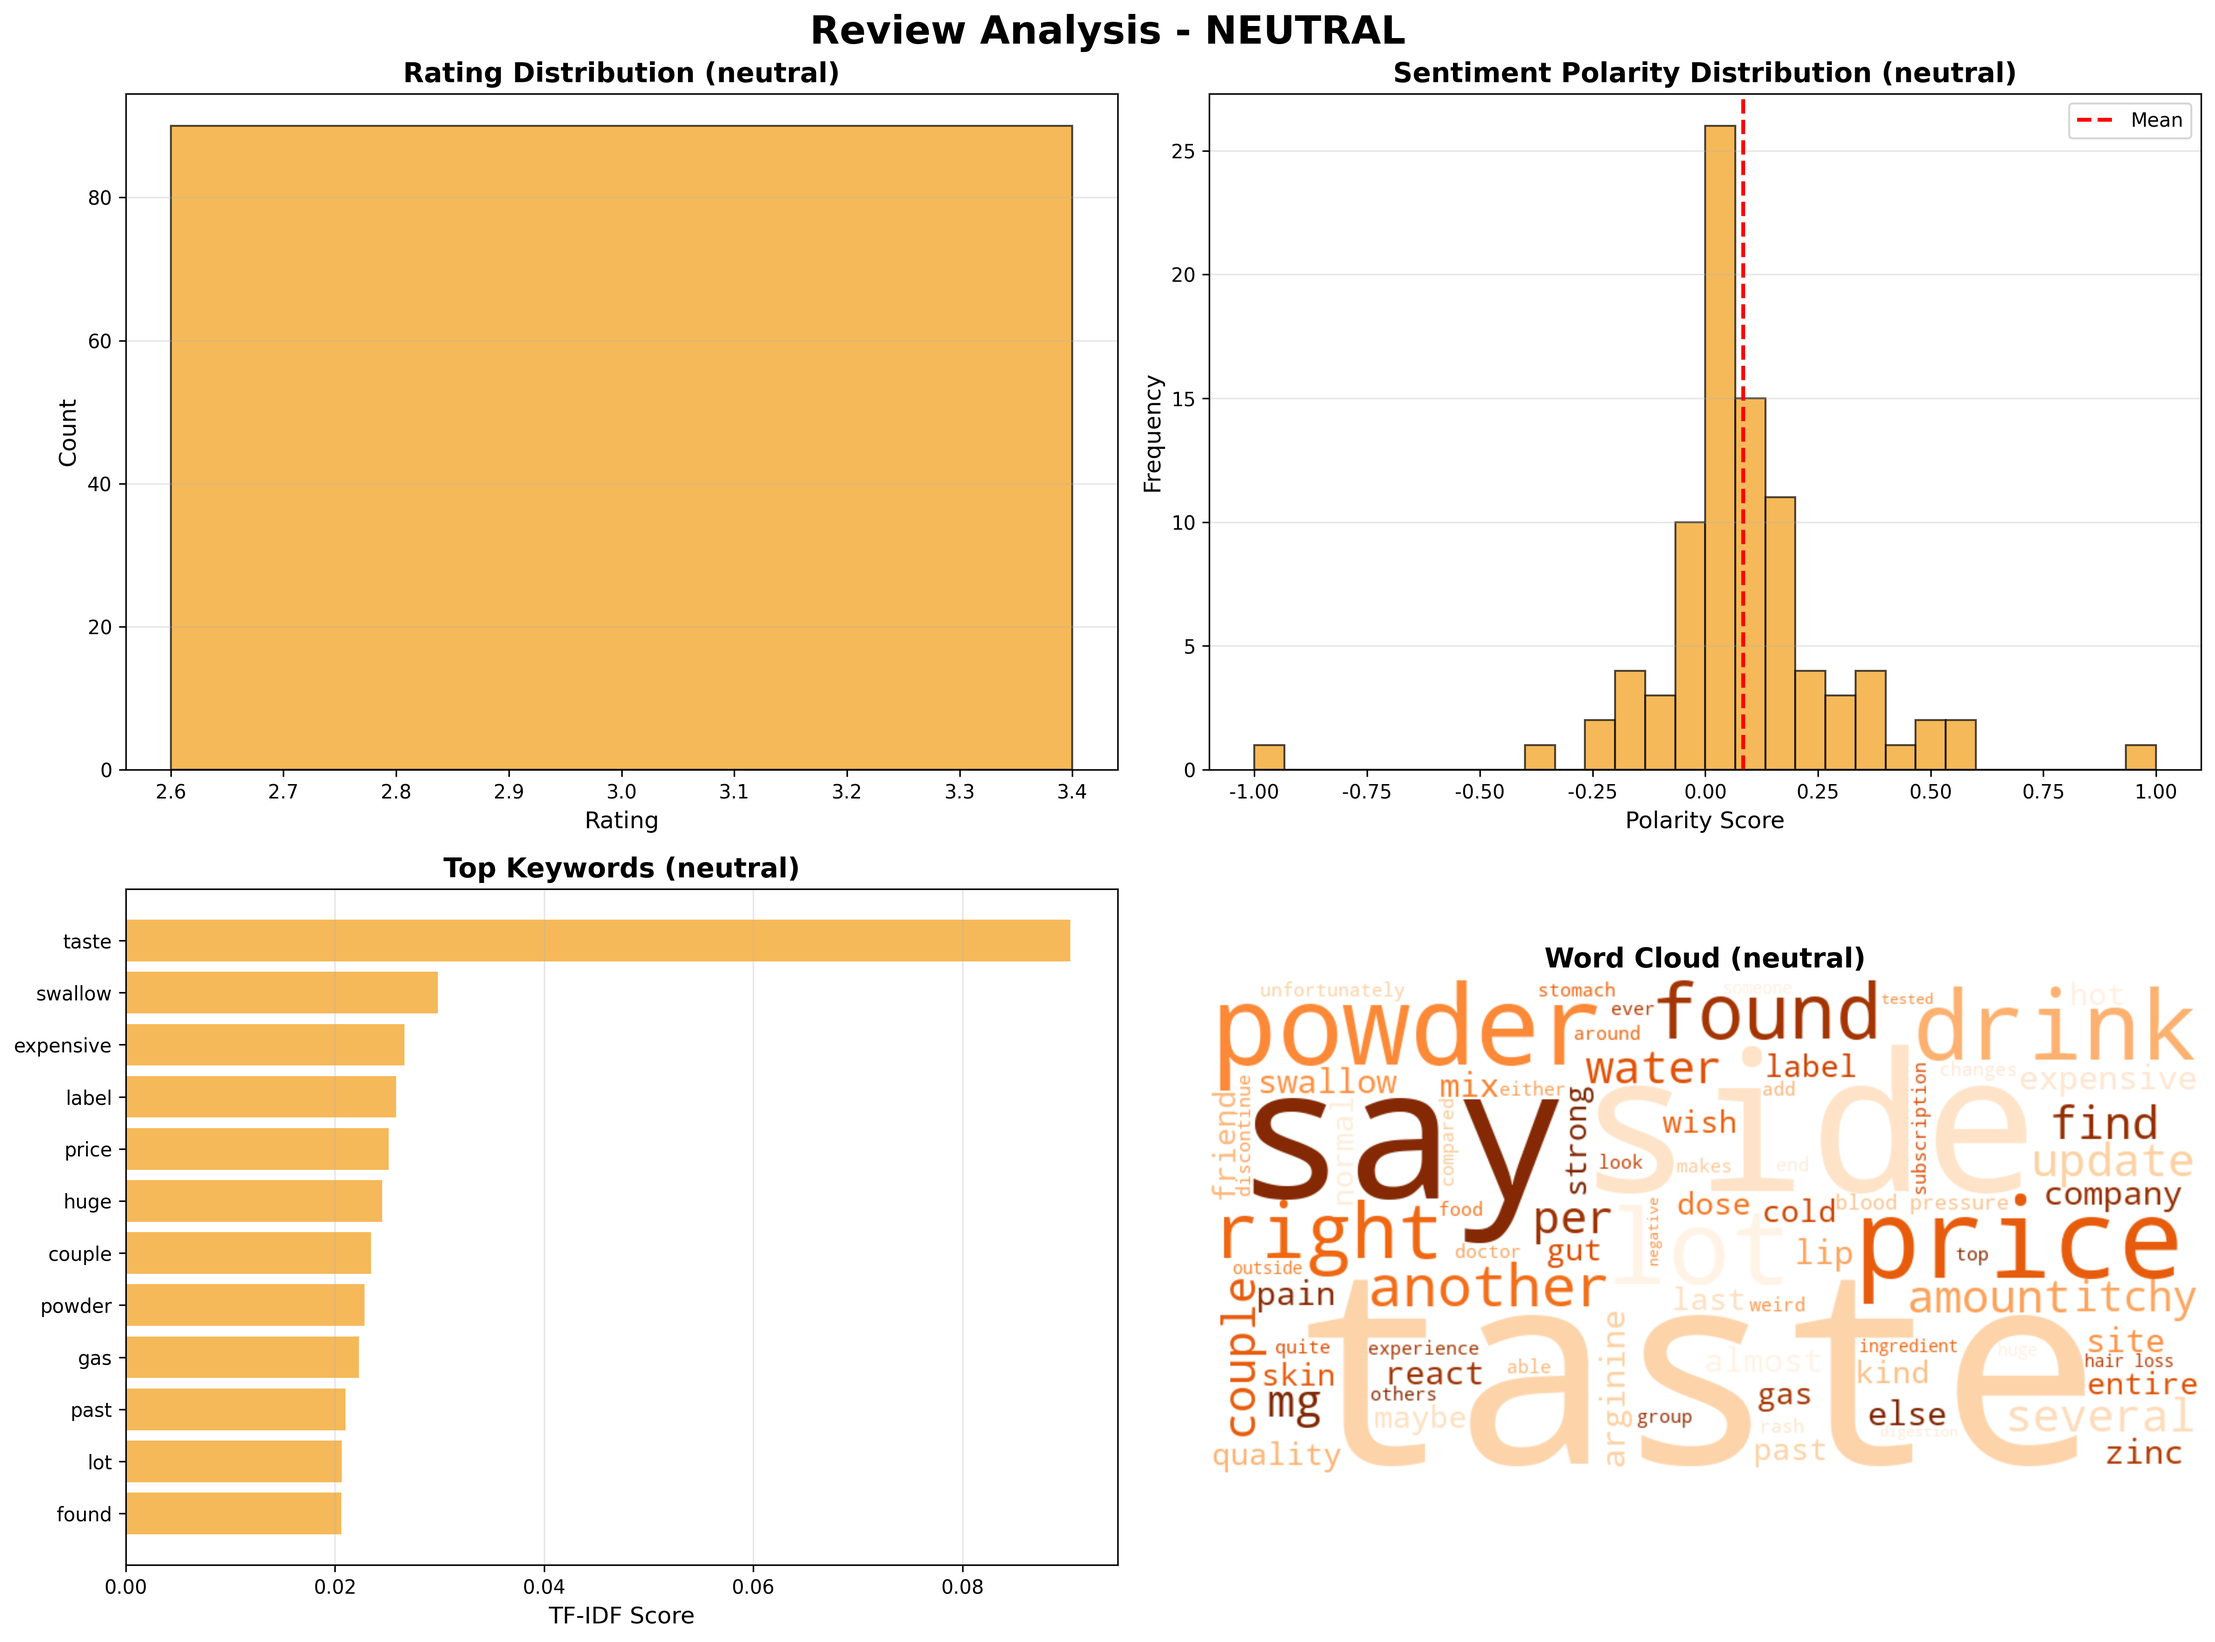
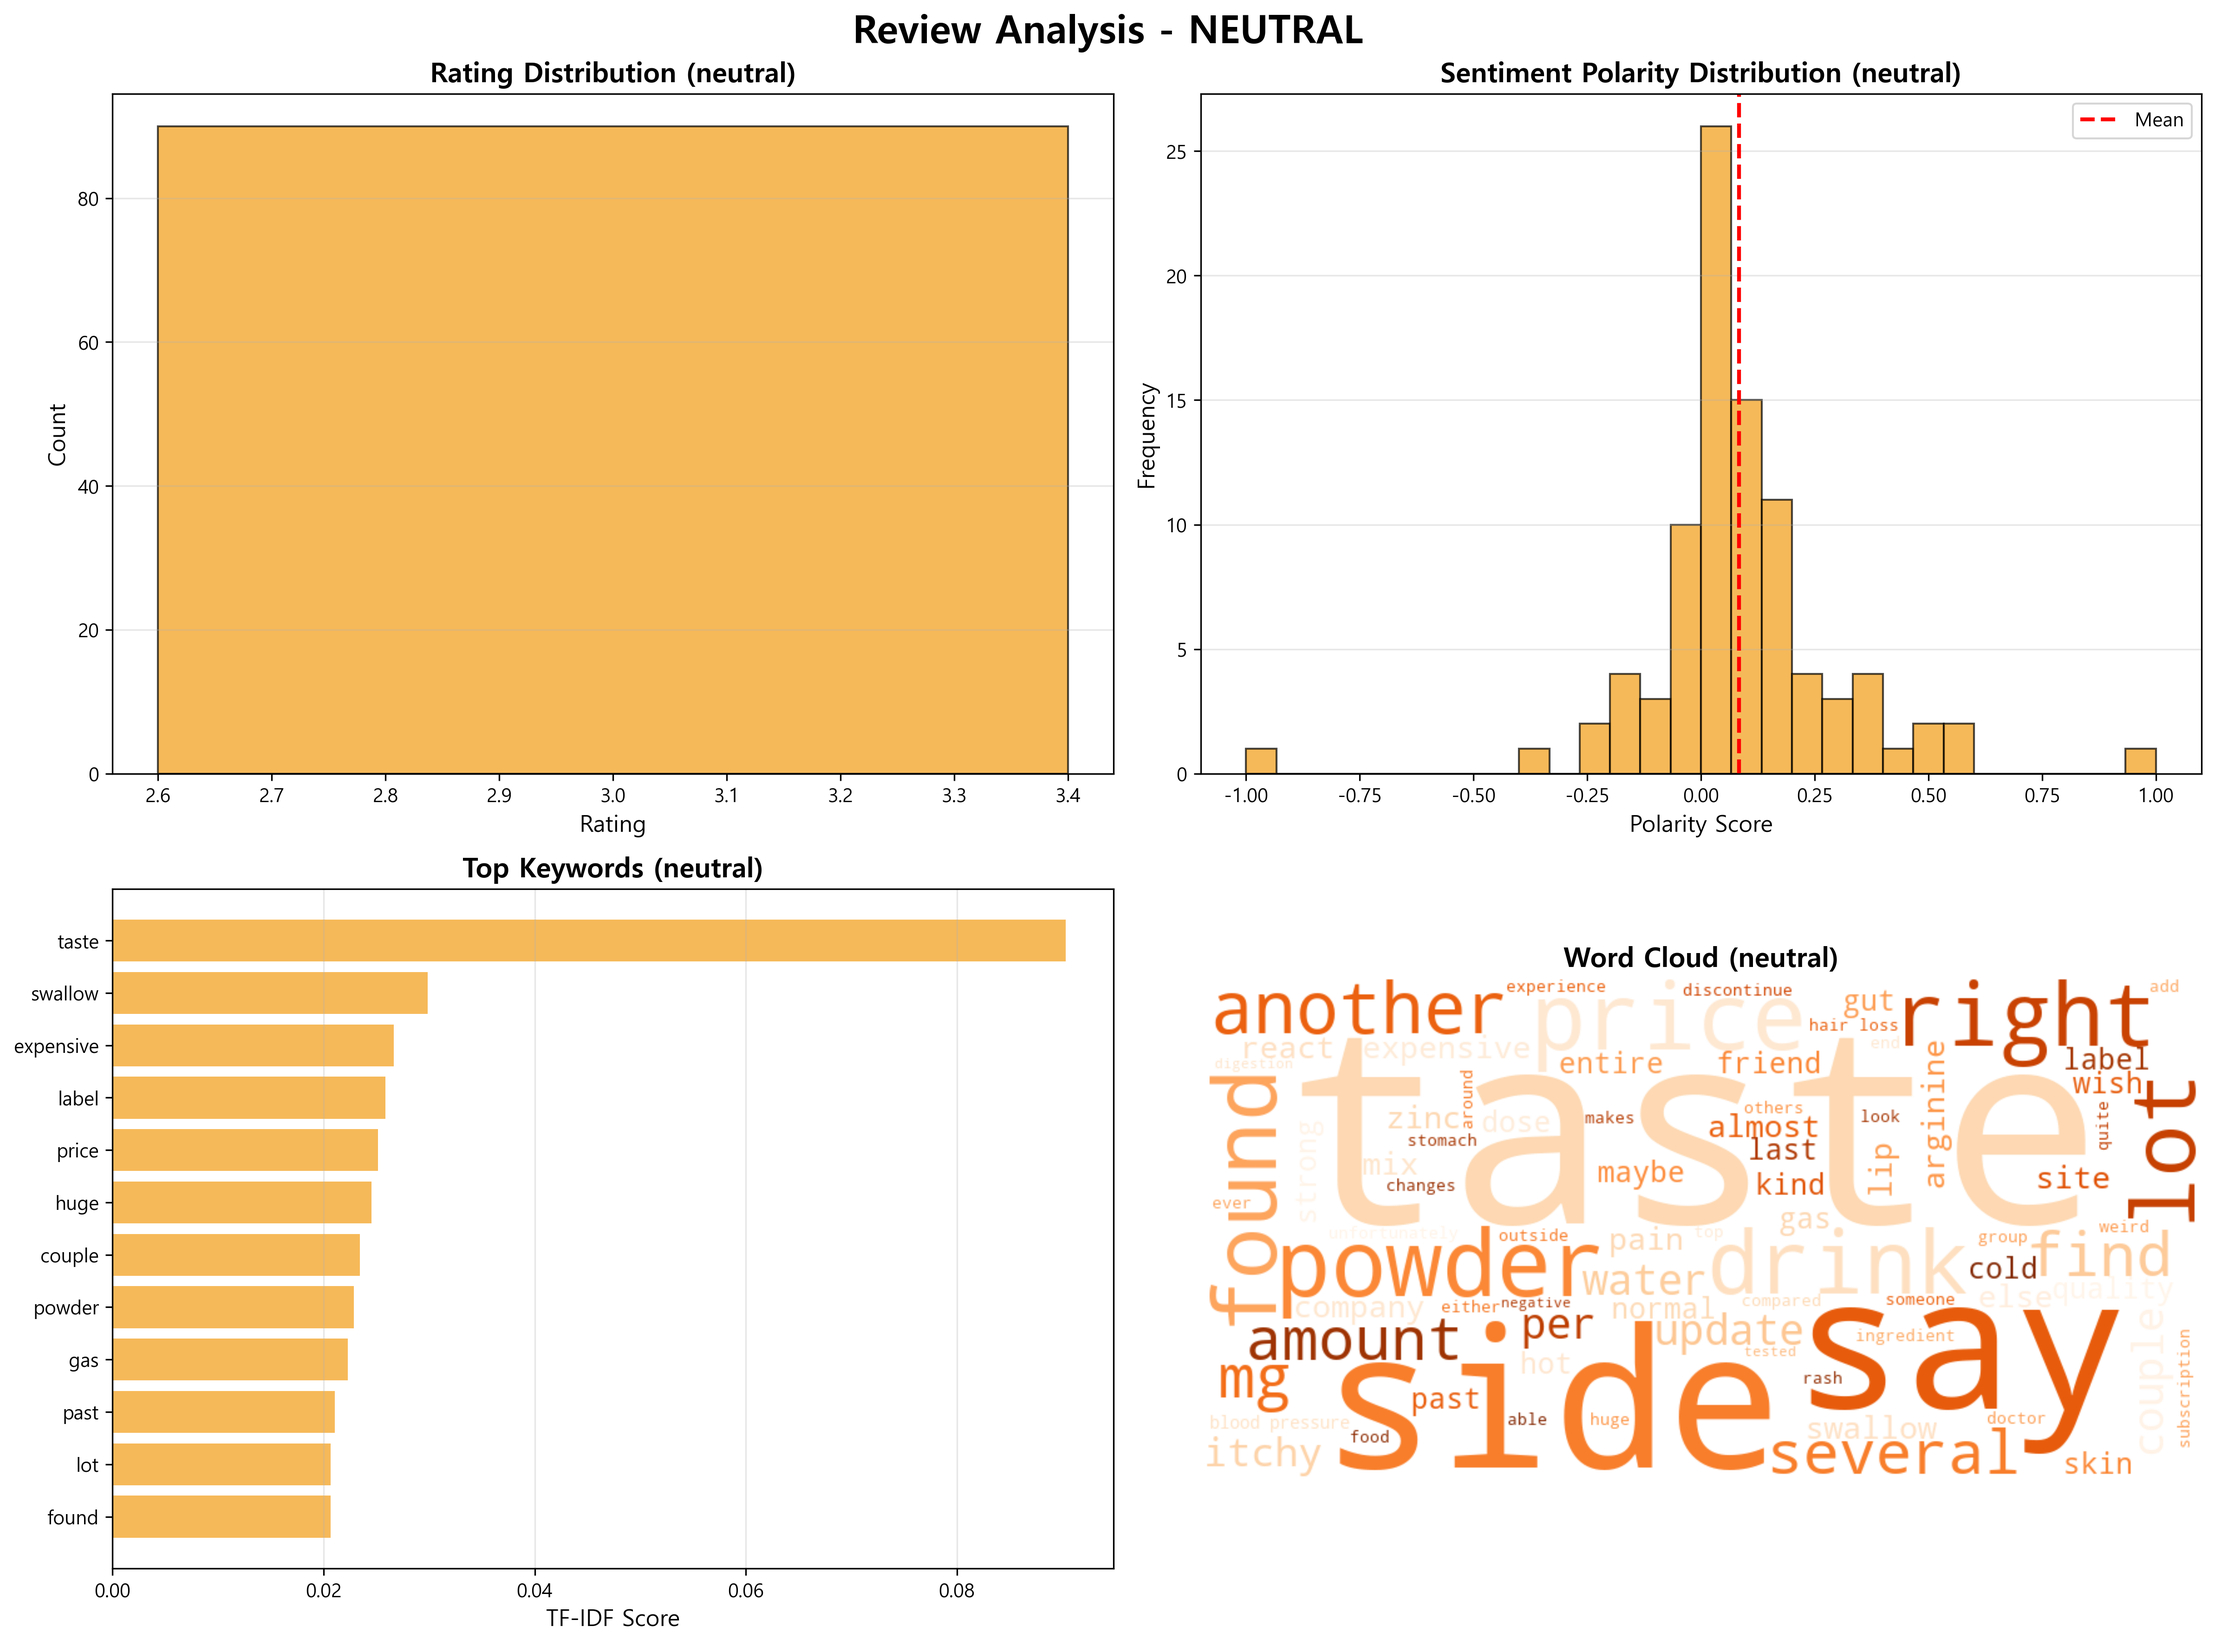
한글 폰트 깨짐 수정

diff --git a/Amazon_review/amazon_reviews_analyze.py b/Amazon_review/amazon_reviews_analyze.py
@@ -582,8 +582,8 @@ def create_visualizations(df, keywords_by_sentiment, improvement_areas):
     output_folder = "Amazon_review_analysis"
     if not os.path.exists(output_folder):
         os.makedirs(output_folder)
-    plt.rcParams["font.family"] = "DejaVu Sans"
-    plt.rcParams["axes.unicode_minus"] = False
+    plt.rcParams['font.family'] = 'Malgun Gothic'  # Windows 맑은 고딕
+    plt.rcParams['axes.unicode_minus'] = False
     for sentiment in ["positive", "neutral", "negative"]:
         sentiment_df = df[df["sentiment_category"] == sentiment]
         if len(sentiment_df) == 0:
